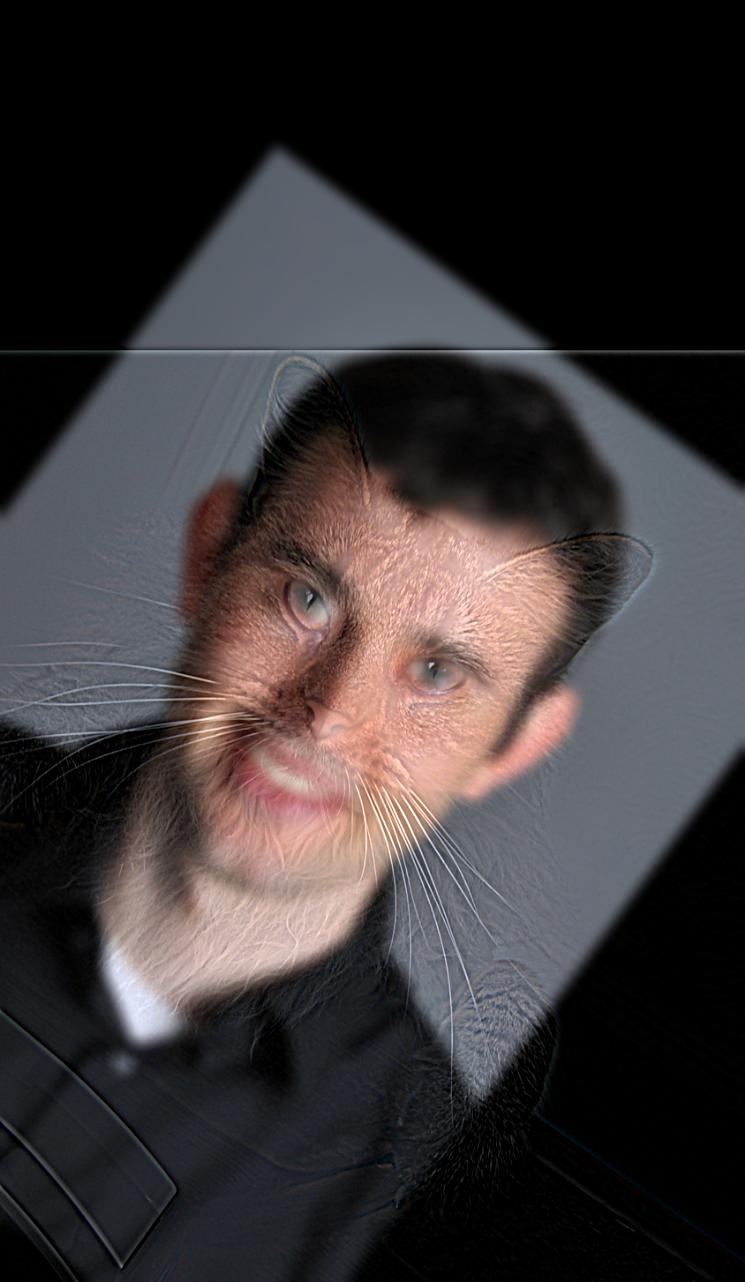
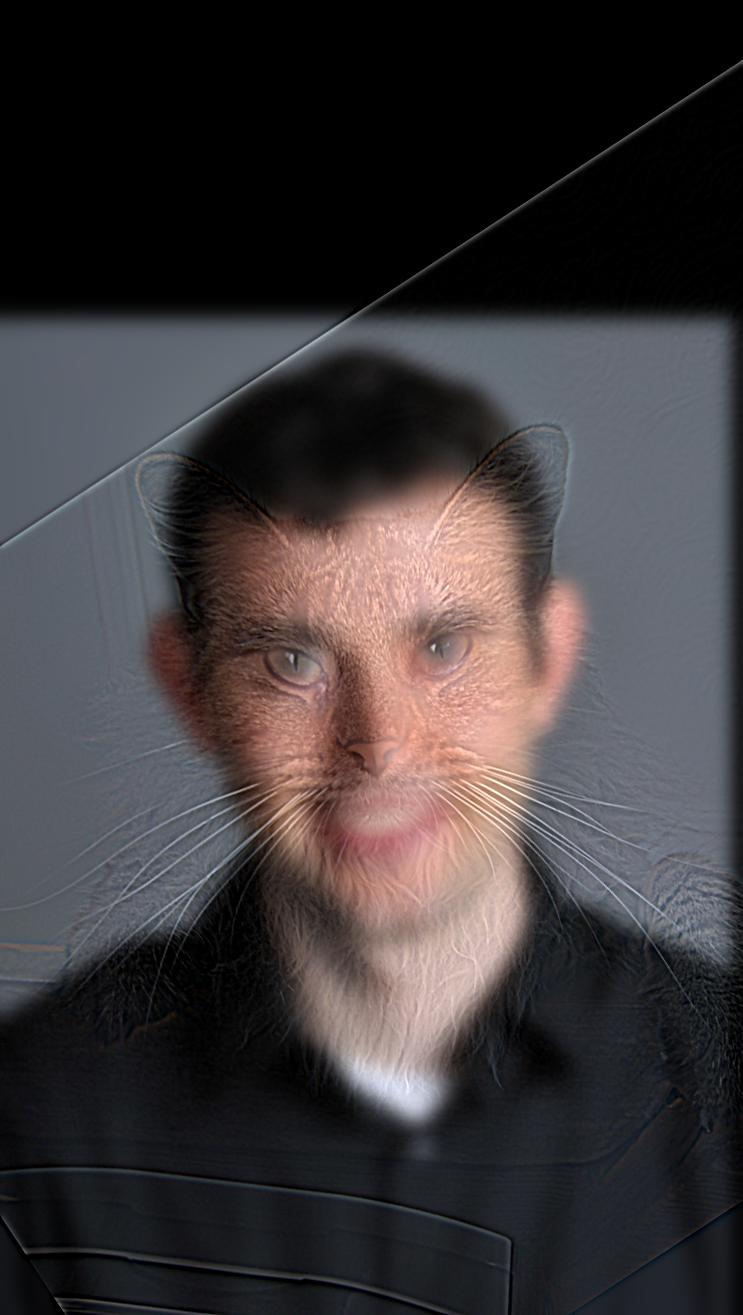
fix hybrid

diff --git a/proj2/index.html b/proj2/index.html
@@ -180,9 +180,8 @@
                 <span>Figure 11: Partial $y$ derivative using the derivative of the Gaussian.</span>
             </div>
         </td>
-    </tr></table>
-
-    <table><tr>
+    </tr>
+    <tr>
         <td>
             <div class="center">
                 <img src="images/cameraman/out_gm_dog.jpg" class="single-image"/> <br>
@@ -265,7 +264,7 @@
 
     <h4>Re-sharpening a Blurred Image</h4>
 
-    <p>In the following process, the original image of my cat Luna <span class="code">luna_small.jpg</span> was first blurred and then "restored" by applying the unsharp mask filter. </p>
+    <p>The image of my cat Luna <span class="code">luna_small.jpg</span> was used to test whether sharpening can fully restore the high frequency details of an image. The original image was first blurred by applying a Gaussian filter. Then, it was sharpened using the unsharp mask filter. As shown in the following images, although the details are stronger, the re-sharpened images lose certain subtleties seen in the original such as the gradients in the shadows and the fine lines in her fur.</p>
 
     <table><tr>
         <td>
@@ -327,7 +326,7 @@
         </td>
         <td>
             <div class="center">
-                <img src="images/hybrid/hybrid_dereknutmeg2.jpg" class="single-image"/> <br>
+                <img src="images/hybrid/hybrid_dereknutmeg.jpg" class="single-image"/> <br>
                 <span>Figure 26: Colored hybrid image of Derek & Nutmeg.</span>
             </div>
         </td>
@@ -387,6 +386,37 @@
             <div class="center">
                 <img src="images/hybrid/hybrid_moto.jpg" class="single-image"/> <br>
                 <span>Figure 35: Colored hybrid image of the motorcycle.</span>
+            </div>
+        </td>
+    </tr></table>
+
+    <h4>Luna & Tiger (Failure Case)</h4>
+
+    <p>Although Luna is a very cute cat, this hybrid image of her and a tiger did not turn out well. Given the input images, these were the best images that could be produced. In this case, the images could not be properly aligned, and the low frequency components overwhelmed the high frequency features. When adding the filtered images together, a weight was multiplied to the low frequency image to lessen its intensity, at the cost of darkening the resulting image. </p>
+
+    <table><tr>
+        <td>
+            <div class="center">
+                <img src="images/hybrid/luna_yawn.jpg" class="single-image"/> <br>
+                <span>Figure 31: Luna yawning <br>  $r = 30, \sigma=15$.</span>
+            </div>
+        </td>
+        <td>
+            <div class="center">
+                <img src="images/hybrid/tiger_yawn.jpg" class="single-image"/> <br>
+                <span>Figure 32: Tiger yawning <br>  $r = 10, \sigma=3$.</span>
+            </div>
+        </td>
+        <td>
+            <div class="center">
+                <img src="images/hybrid/hybrid_lunatiger_gray.jpg" class="single-image"/> <br>
+                <span>Figure 33: Grayscale hybrid image of the cats.</span>
+            </div>
+        </td>
+        <td>
+            <div class="center">
+                <img src="images/hybrid/hybrid_yawn.jpg" class="single-image"/> <br>
+                <span>Figure 35: Colored hybrid image of the cats.</span>
             </div>
         </td>
     </tr></table>
